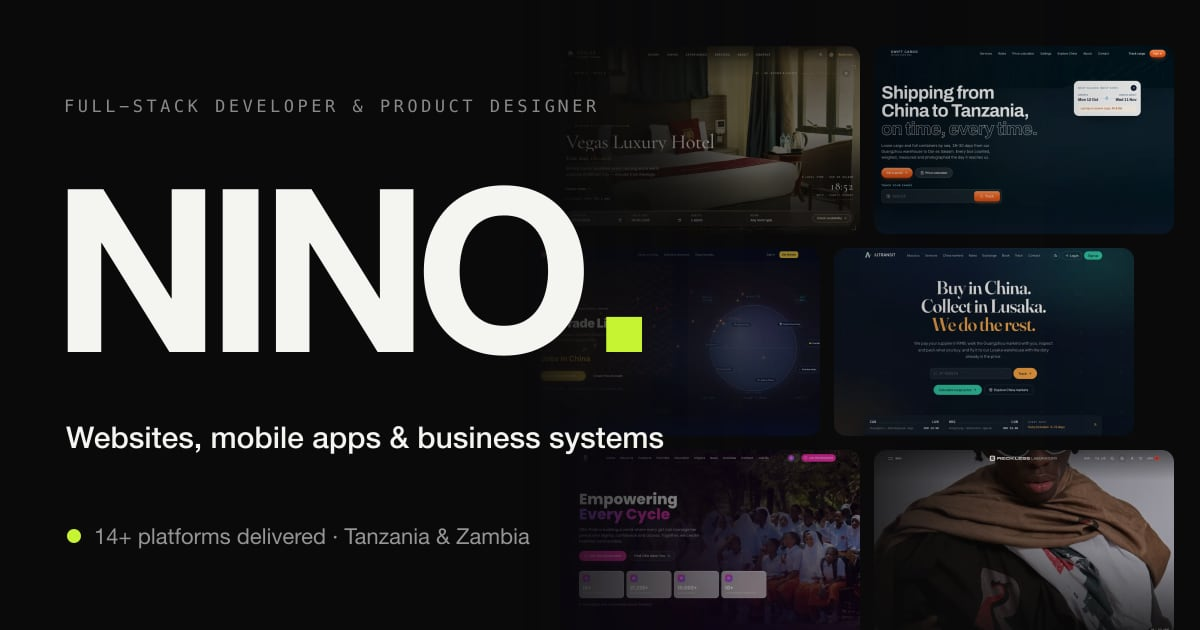
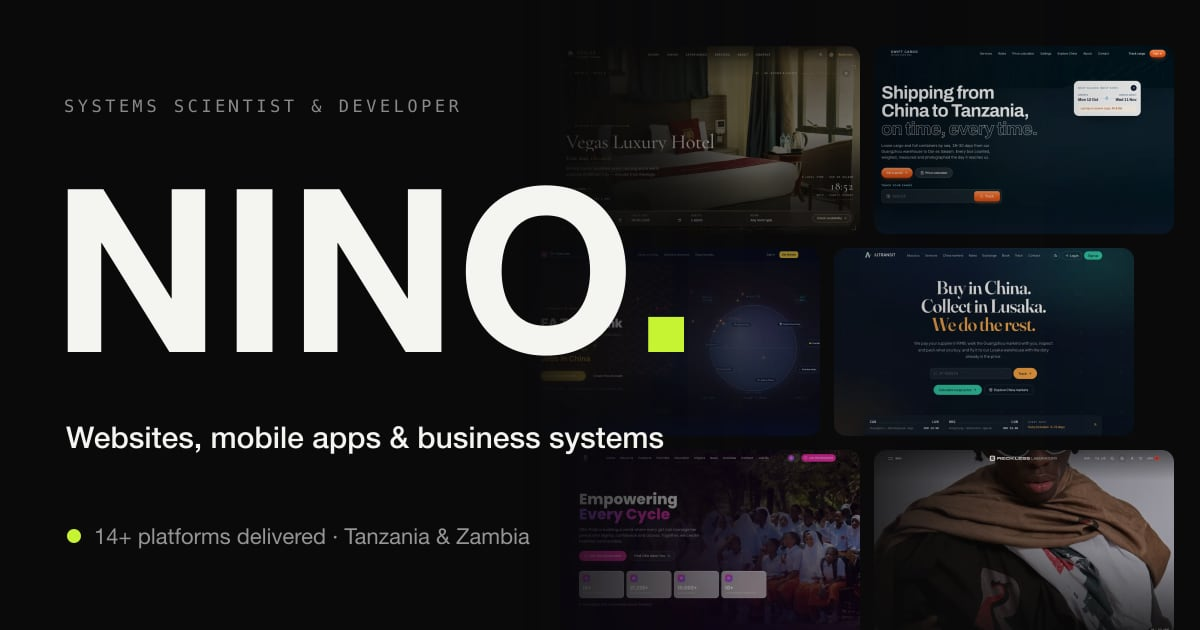
Nino page: compact hero, 'Systems scientist & developer', no degree line

Changed region(s): [[0.185, 0.2714, 0.5858, 0.573], [0.0617, 0.1508, 0.4933, 0.181]]

diff --git a/src/app/nino/page.tsx b/src/app/nino/page.tsx
@@ -9,14 +9,14 @@ import { cn } from "@/lib/utils";
 import { CONTACT, EXPERTISE, LIVE, MORE, STACK, type Project } from "./work";
 import s from "./nino.module.css";
 
-const TITLE = "Nino — Full-stack developer & product designer";
+const TITLE = "Nino — Systems scientist & developer";
 const DESCRIPTION = "Websites, mobile apps and business systems, from the first idea to the live product. 14+ platforms delivered for clients in Tanzania & Zambia.";
 
 export const metadata: Metadata = {
   title: { absolute: TITLE },
   description: DESCRIPTION,
   alternates: { canonical: "/nino" },
-  openGraph: { type: "profile", title: TITLE, description: DESCRIPTION, images: [{ url: "/nino/og.jpg", width: 1200, height: 630, alt: "NINO. — Full-stack developer & product designer", type: "image/jpeg" }] },
+  openGraph: { type: "profile", title: TITLE, description: DESCRIPTION, images: [{ url: "/nino/og.jpg", width: 1200, height: 630, alt: "NINO. — Systems scientist & developer", type: "image/jpeg" }] },
   twitter: { card: "summary_large_image", title: TITLE, description: DESCRIPTION, images: ["/nino/og.jpg"] },
 };
 export const viewport: Viewport = { themeColor: "#0a0a0b" };
@@ -55,42 +55,44 @@ export default function NinoPage() {
       </header>
 
       <main id="top">
-        {/* ── Hero ── */}
-        <section className={cn(wrap, "pb-14 pt-12 sm:pb-20 sm:pt-20")}>
-          <p className={cn(eyebrow, s.rise)}>Full-stack developer &amp; product designer</p>
-          <h1 className={cn(s.wordmark, s.rise, s.rise2, "mt-6 select-none")} aria-label="Nino">
-            NINO<span className="text-[var(--accent)]">.</span>
-          </h1>
-          <div className={cn(s.rise, s.rise3, "mt-10 grid gap-8 border-t border-[var(--rule)] pt-8 md:grid-cols-[minmax(0,1.3fr)_minmax(0,1fr)] md:gap-16")}>
-            <p className="max-w-2xl text-balance text-xl leading-snug text-[var(--ink)] sm:text-2xl">
-              I design and build the software businesses run on — websites, mobile apps, booking and payment systems, and the dashboards
-              behind them. <span className="text-[var(--muted)]">From the first idea to the live product.</span>
-            </p>
-            <div className="flex flex-col items-start gap-5 md:items-end md:text-right">
-              <p className="inline-flex items-center gap-2.5 rounded-full border border-[var(--rule)] bg-[var(--card)] px-3.5 py-1.5 text-[13px] text-[var(--muted)]">
-                <span className={cn(s.pulse, "size-2 rounded-full bg-[var(--accent)]")} aria-hidden="true" />Available for select projects
+        {/* ── Hero: compact — the name, one line on what I do, and the way in; the work starts just below. ── */}
+        <section className={cn(wrap, "pb-10 pt-10 sm:pb-14 sm:pt-16")}>
+          <div className="grid items-end gap-8 lg:grid-cols-[auto_minmax(0,1fr)] lg:gap-16">
+            <div>
+              <p className={cn(eyebrow, s.rise)}>Systems scientist &amp; developer</p>
+              <h1 className={cn(s.wordmark, s.rise, s.rise2, "mt-4 select-none")} aria-label="Nino">
+                NINO<span className="text-[var(--accent)]">.</span>
+              </h1>
+            </div>
+            <div className={cn(s.rise, s.rise3, "lg:pb-3")}>
+              <p className="max-w-xl text-pretty text-lg leading-snug text-[var(--ink)] sm:text-xl">
+                I design and build the software businesses run on — websites, mobile apps, booking and payment systems, and the
+                dashboards behind them. <span className="text-[var(--muted)]">From the first idea to the live product.</span>
               </p>
-              <div className="flex flex-wrap gap-2.5 md:justify-end">
+              <div className="mt-6 flex flex-wrap items-center gap-2.5">
                 <a href="#work" className={cn("inline-flex h-11 items-center gap-2 rounded-full bg-[var(--ink)] px-5 text-sm font-semibold text-[#0a0a0b] transition hover:bg-white", focus)}>
                   See the work<ArrowDown className="size-4" aria-hidden="true" />
                 </a>
                 <a href={wa(CONTACT.whatsapp[0].digits)} {...ext} className={cn("inline-flex h-11 items-center gap-2 rounded-full border border-[var(--rule)] px-5 text-sm font-semibold transition-colors hover:border-[var(--muted)]", focus)}>
                   <MessageCircle className="size-4" aria-hidden="true" />WhatsApp me<span className="sr-only"> (opens WhatsApp)</span>
                 </a>
+                <span className="inline-flex items-center gap-2 px-1 text-[13px] text-[var(--muted)]">
+                  <span className={cn(s.pulse, "size-2 rounded-full bg-[var(--accent)]")} aria-hidden="true" />Available for select projects
+                </span>
               </div>
             </div>
           </div>
 
-          {/* The facts, as given — nothing rounded up. */}
-          <dl className="mt-14 grid grid-cols-1 divide-y divide-[var(--rule)] border-y border-[var(--rule)] sm:grid-cols-3 sm:divide-x sm:divide-y-0">
+          {/* The facts, as given — nothing rounded up; small, one line. */}
+          <dl className={cn(s.rise, s.rise3, "mt-10 flex flex-wrap gap-x-8 gap-y-3 border-y border-[var(--rule)] py-4 sm:gap-x-12")}>
             {[
-              { big: "14+", small: "Platforms delivered" },
-              { big: "TZ · ZM", small: "Clients in Tanzania & Zambia" },
-              { big: "Master's", small: "Business & systems science" },
+              { big: "14+", small: "platforms delivered" },
+              { big: String(LIVE.length), small: "sites live right now" },
+              { big: "TZ · ZM", small: "clients in Tanzania & Zambia" },
             ].map((f) => (
-              <div key={f.small} className="flex flex-row-reverse items-baseline justify-between gap-4 py-5 sm:flex-col-reverse sm:items-start sm:justify-end sm:gap-2 sm:px-6 sm:py-7 sm:first:pl-0">
-                <dt className="text-right text-sm text-[var(--muted)] sm:text-left">{f.small}</dt>
-                <dd className="text-3xl font-black tracking-[-0.04em] sm:text-5xl">{f.big}</dd>
+              <div key={f.small} className="flex items-baseline gap-2.5">
+                <dd className="text-xl font-black tracking-[-0.03em] sm:text-2xl">{f.big}</dd>
+                <dt className="order-2 text-[13px] text-[var(--muted)]">{f.small}</dt>
               </div>
             ))}
           </dl>
@@ -147,9 +149,8 @@ export default function NinoPage() {
               <div className="mt-8 rounded-3xl border border-[var(--rule)] p-6 sm:p-7">
                 <p className={eyebrow}>Business first, then code</p>
                 <p className="mt-3 text-pretty text-[17px] leading-relaxed text-[var(--muted)]">
-                  My background is business and systems science — a master&apos;s degree. Before I design a screen I map how the business
-                  really works: who does what, where the money goes, what must never go wrong. Then I build the system around it — which
-                  is how a hotel website becomes the tool the whole team runs the hotel on.
+                  Before I design a screen I map how the business really works — who does what, where the money goes. Then I build
+                  the system around it.
                 </p>
               </div>
             </div>

diff --git a/src/app/nino/nino.module.css b/src/app/nino/nino.module.css
@@ -38,7 +38,7 @@
   font-weight: 900;
   letter-spacing: -0.075em;
   line-height: 0.78;
-  font-size: clamp(6.5rem, 30vw, 25rem);
+  font-size: clamp(5rem, 22vw, 11rem);
   margin-left: -0.04em;
 }
 
